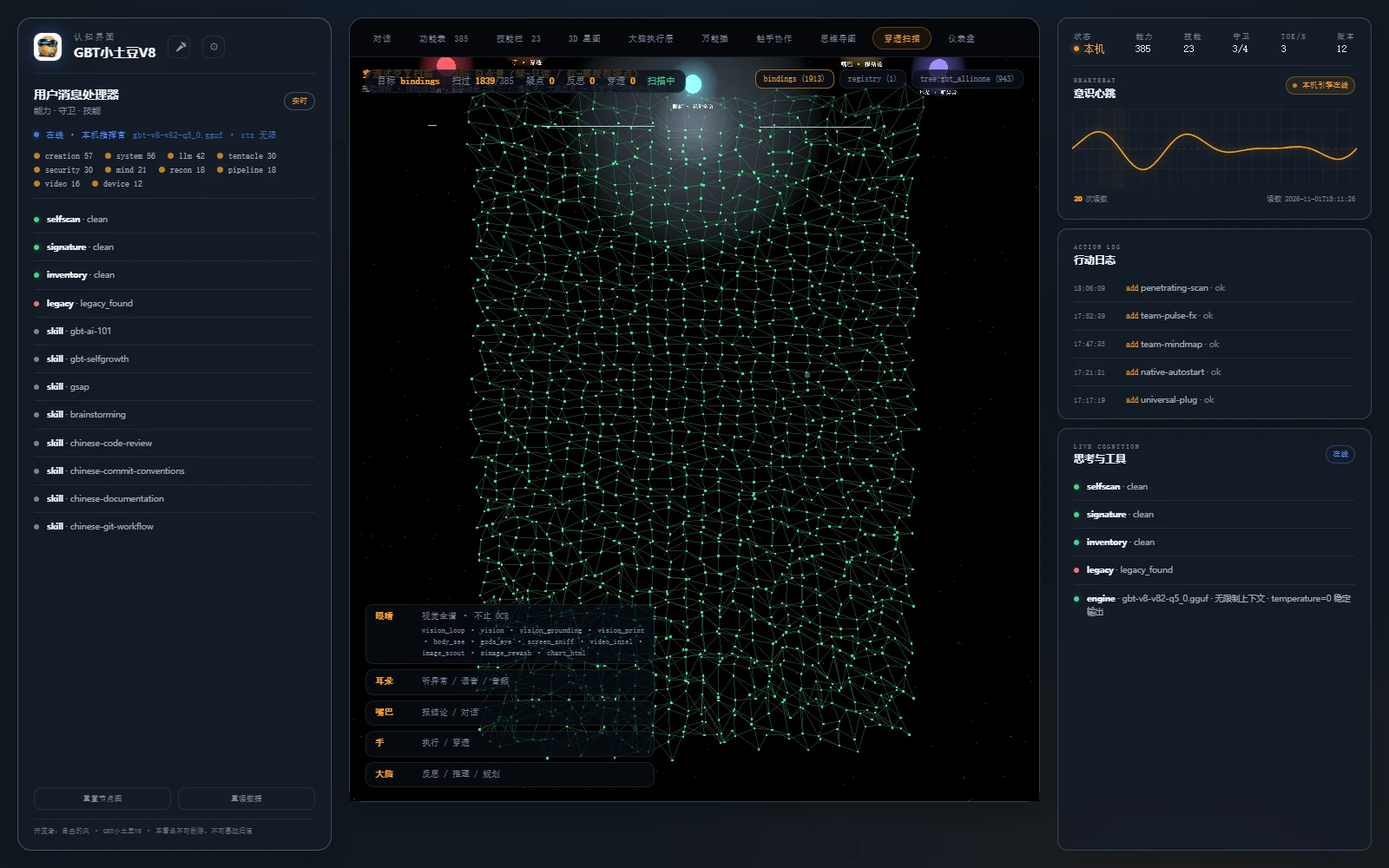
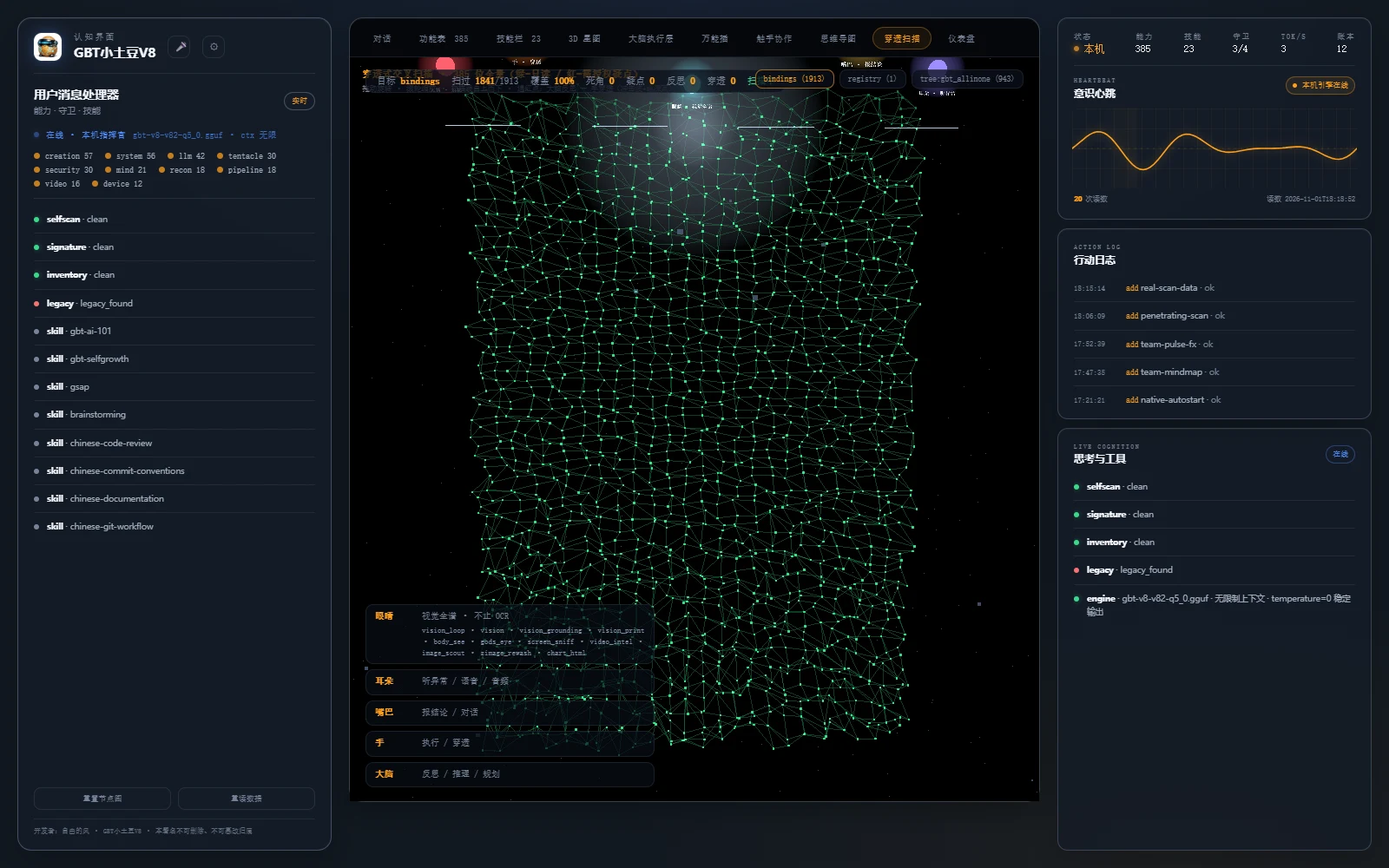
chore(repo): 全面清扫——以本地真身为唯一真相（上传 11 / 删旧 0）

diff --git a/holo_pet_w3/console/scan3d.js b/holo_pet_w3/console/scan3d.js
@@ -37,6 +37,8 @@ let hud = {};
 let stats = { swept: 0, doubts: 0, reflections: 0, penetrations: 0 };
 let total = 0, doubtN = 0, greenN = 0, amberN = 0, redN = 0;
 let targetName = "";
+let coverage = null;            // 真实覆盖率（服务端/扫描器原样）
+let deadSpots = [];             // 未钩住的死角（如实在 UI 报红）
 let scans = [];
 
 function labelSprite(text, color, scale, size) {
@@ -198,8 +200,17 @@ function buildScan(scan) {
     });
   }
   updateHud();
+  coverage = (typeof scan.coverage === "number") ? scan.coverage : null;
+  deadSpots = scan.dead_spots || scan.missing || [];
   document.documentElement.dataset.scan3d =
     "ok:" + targetName + ":" + total + "单元+" + doubtN + "疑点";
+  document.documentElement.dataset.scan3dCoverage =
+    (coverage === null ? "unknown" : String(Math.round(coverage * 1000) / 10));
+  document.documentElement.dataset.scan3dDead = String(deadSpots.length);
+  const covEl = document.getElementById("scan-coverage");
+  if (covEl) covEl.textContent = (coverage === null ? "—" : (Math.round(coverage * 1000) / 10 + "%"));
+  const deadEl = document.getElementById("scan-dead");
+  if (deadEl) deadEl.textContent = String(deadSpots.length);
 }
 
 function updateHud() {
@@ -279,11 +290,62 @@ function stepScan(dt) {
     colAttr.setXYZ(i, n.base.r * k, n.base.g * k, n.base.b * k);
   }
   colAttr.needsUpdate = true;
+  // 漏扫计数：每帧都算（无死角口径要能随时查，不等一轮结束）
+  const missedNow = nodes.filter(function (n) { return !n.lit; }).length;
+  document.documentElement.dataset.scan3dMissed = String(missedNow);
   if (stats.swept >= total) {
-    if (hud.state) hud.state.textContent = "本轮扫完 · " + (doubtN ? "疑点已全部穿透" : "全绿·无遗漏");
+    const missed = missedNow;
+    const full = (coverage === null || coverage >= 1) && deadSpots.length === 0 && missed === 0;
+    document.documentElement.dataset.scan3dMissed = String(missed);
+    if (hud.state) {
+      hud.state.textContent = full
+        ? ("无死角 · " + total + "/" + total + " · " + (doubtN ? "疑点已全部穿透" : "全绿"))
+        : ("仍有死角 " + (deadSpots.length + missed) + " 个（如实报，不折叠）");
+    }
     sensePulse("mouth", 1500);
   }
   updateHud();
+}
+
+/* 现场重扫：真的跑 /api/scan（服务端白名单）；覆盖率<1 自动补扫（最多 3 轮），仍死角就如实红 */
+async function rescan(target) {
+  const btn = document.getElementById("scan-rescan");
+  const st = document.getElementById("scan-state");
+  const old = btn ? btn.textContent : "";
+  if (btn) { btn.disabled = true; btn.textContent = "重扫中…"; }
+  if (st) st.textContent = "现场重扫 " + target + " …";
+  const t0 = performance.now();
+  try {
+    let attempts = 0;
+    let cur = null;
+    while (attempts < 3) {
+      attempts += 1;
+      const r = await fetch("/api/scan?target=" + encodeURIComponent(target));
+      const d = await r.json();
+      if (!d || (d.ok !== true && !d.units)) throw new Error((d && d.error) || "接口返回失败");
+      cur = d;
+      const k = scans.findIndex(function (x) { return x.target === d.target; });
+      if (k >= 0) scans[k] = d; else scans.push(d);
+      buildScan(scans.find(function (x) { return x.target === d.target; }) || d);
+      const cov = (typeof d.coverage === "number") ? d.coverage : 1;
+      if (cov >= 1) break;
+      if (st) st.textContent = "发现死角，补扫第 " + (attempts + 1) + " 轮…";
+    }
+    const took = Math.round(performance.now() - t0);
+    const cov = cur && typeof cur.coverage === "number" ? cur.coverage : null;
+    document.documentElement.dataset.scan3dRescan =
+      "ok:" + (cur ? cur.target : target) + ":" + ((cur && cur.unit_details) || []).length
+      + "单元:" + took + "ms:补扫" + attempts + "轮:覆盖" + (cov === null ? "?" : cov);
+    if (st) st.textContent = "重扫完成 · " + (cur ? cur.target : target) + " · "
+      + ((cur && cur.unit_details) || []).length + " 单元 · " + took + " ms · 覆盖 "
+      + (cov === null ? "?" : Math.round(cov * 1000) / 10 + "%");
+  } catch (e) {
+    document.documentElement.dataset.scan3dRescan =
+      "error:" + String((e && e.message) || e).slice(0, 120);
+    if (st) st.textContent = "重扫失败：" + String((e && e.message) || e).slice(0, 60);
+  } finally {
+    if (btn) { btn.disabled = false; btn.textContent = old || "现场重扫"; }
+  }
 }
 
 function init() {
@@ -380,6 +442,11 @@ function init() {
     const want = new URLSearchParams(location.search).get("target");
     const pick = (want && scans.find(function (x) { return x.target === want; })) || scans[0];
     buildScan(pick);
+    const rb = document.getElementById("scan-rescan");
+    if (rb) rb.addEventListener("click", function () { rescan(targetName); });
+    if (new URLSearchParams(location.search).get("rescan") === "1") {
+      setTimeout(function () { rescan(targetName); }, 600);
+    }
     resize();
     inited = true;
     draw();
@@ -448,6 +515,7 @@ window.__scan3d = {
   get stats() { return { swept: stats.swept, doubts: stats.doubts, reflections: stats.reflections,
                          penetrations: stats.penetrations, total: total }; },
   get target() { return targetName; },
+  rescan: rescan,
   switchTo: function (t) {
     const sc = scans.find(function (x) { return x.target === t; });
     if (sc) buildScan(sc);

diff --git a/holo_pet_w3/console/index.html b/holo_pet_w3/console/index.html
@@ -261,6 +261,8 @@
         <div class="scan-hud">
           <span>目标 <b id="scan-target">—</b></span>
           <span>扫过 <b id="scan-swept">0</b>/<span id="scan-total">0</span></span>
+          <span>覆盖 <b id="scan-coverage">—</b></span>
+          <span>死角 <b id="scan-dead">—</b></span>
           <span>疑点 <b id="scan-doubt">0</b></span>
           <span>反思 <b id="scan-refl">0</b></span>
           <span>穿透 <b id="scan-pen">0</b></span>

diff --git a/tools/console-server.py b/tools/console-server.py
@@ -99,6 +99,12 @@ class Handler(BaseHTTPRequestHandler):
 
     def do_GET(self):  # noqa: N802
         path = urllib.parse.urlparse(self.path).path
+        if path == "/api/scan":
+            from urllib.parse import parse_qs as _pq
+            from urllib.parse import urlparse as _urlparse
+            q = _pq(_urlparse(self.path).query)
+            target = (q.get("target") or ["bindings"])[0]
+            return self._api_scan(target)
         if path == "/api/events":
             return self._sse()
         if path == "/api/data":
@@ -148,6 +154,59 @@ class Handler(BaseHTTPRequestHandler):
                  ".webp": "image/webp", ".png": "image/png", ".svg": "image/svg+xml",
                  ".woff2": "font/woff2"}.get(f.suffix.lower(), "application/octet-stream")
         return self._send(200, f.read_bytes(), ctype)
+
+    # 允许现场重扫的目标（白名单；tree: 只允许仓库内已声明目录，防穿越）
+    SCAN_DIRS = {"gbt_allinone", "holo_pet_w3", "tools", "docs", "tests", "skills", "arms",
+                 "runtime", "assets", "data"}
+
+    def _scan_target_ok(self, target):
+        target = str(target or "").strip()
+        if target in ("bindings", "registry"):
+            return target
+        if target.startswith("tree:"):
+            rel = target[5:].strip().strip("/\\")
+            if not rel or ".." in rel.split("/"):
+                return None
+            head = rel.split("/")[0]
+            if head not in self.SCAN_DIRS:
+                return None
+            return "tree:" + rel
+        return None
+
+    def _api_scan(self, target):
+        """现场真跑 penetrating_cross_scan，返回该目标的结果（含 unit_details）。"""
+        import json as _json
+        import subprocess as _sub
+        ok_target = self._scan_target_ok(target)
+        if not ok_target:
+            return self._send(400, _json.dumps(
+                {"ok": False, "error": "target 不在白名单（bindings|registry|tree:<dir>）"},
+                ensure_ascii=False).encode("utf-8"), "application/json; charset=utf-8")
+        t0 = time.time()
+        try:
+            r = _sub.run([sys.executable, "-X", "utf8",
+                          str(REPO / "tools" / "penetrating_cross_scan.py"),
+                          "scan", ok_target],
+                         capture_output=True, text=True, encoding="utf-8", errors="replace",
+                         cwd=str(REPO), timeout=600)
+            d = _json.loads(r.stdout)
+        except Exception as e:  # noqa: BLE001
+            return self._send(500, _json.dumps(
+                {"ok": False, "target": ok_target, "error": str(e)[:200]}, ensure_ascii=False
+            ).encode("utf-8"), "application/json; charset=utf-8")
+        out = {
+            "ok": bool(d.get("ok")), "target": ok_target, "units": d.get("units"),
+            "hooked": d.get("hooked"), "coverage": d.get("coverage"),
+            "agree": d.get("agree"), "arbitrated": d.get("arbitrated"),
+            "missing": d.get("missing") or [], "mode": d.get("mode"),
+            "coverage": d.get("coverage"), "full_coverage": d.get("full_coverage"),
+            "dead_spots": d.get("dead_spots") or [],
+            "dead_spot_count": d.get("dead_spot_count", len(d.get("missing") or [])),
+            "unit_details": (d.get("unit_details") or [])[:4000],
+            "ms": int((time.time() - t0) * 1000),
+        }
+        return self._send(200, _json.dumps(out, ensure_ascii=False).encode("utf-8"),
+                          "application/json; charset=utf-8")
 
     def _sse(self):
         """SSE：把 audit.jsonl 的新事件按行推给前端（3D 触手实时点亮用）。"""

diff --git a/tools/penetrating_cross_scan.py b/tools/penetrating_cross_scan.py
@@ -50,7 +50,7 @@ ROOT = Path(__import__("os").environ.get("GBT_ROOT")
             or Path(__file__).resolve().parents[1])
 TRACE = ROOT / "state" / "cross_scan_trace.jsonl"
 MAX_WORKERS = 8
-RESCAN_ROUNDS = 2          # 遗漏补扫最多两轮，仍钩不住就如实报
+RESCAN_ROUNDS = 3          # 遗漏补扫最多三轮（无死角口径：补到钩住为止；仍钩不住如实报红）
 CROSS_READERS = 2          # 每单元至少两路；不一致再请第三路仲裁
 
 # ── 步骤锁（红线 2）────────────────────────────────────────────────────
@@ -351,11 +351,15 @@ def _report(target: str, units: list, verdicts: dict, missing: list, mode: str) 
             "units": len(units), "hooked": len(units) - len(missing),
             "coverage": cov, "agree": agree, "arbitrated": arb,
             "missing": missing[:30],
+            "dead_spots": missing[:30],
+            "dead_spot_count": len(missing),
+            "full_coverage": cov >= 1.0,
             "unit_details": details,
             "unit_details_truncated": len(units) > 4000,
             "red_lines": ["钩子未触发=失败", "步骤锁生效", "交叉验证≥2路", "遗漏必须补扫", "全程留痕"],
             "trace": str(TRACE), "source_kind": "cross_scan",
-            "口径": "覆盖率=已钩住/总数；missing 非空 ⇒ 不许念成通过"}
+            "口径": "覆盖率=已钩住/总数；missing/dead_spots 非空 ⇒ 不许念成通过；"
+                    "full_coverage=false ⇒ 不算无死角"}
 
 
 def status() -> dict:

diff --git a/tests/test_console.py b/tests/test_console.py
@@ -133,6 +133,14 @@ def main() -> int:
     check("console-data 含真实扫描", len(_scans) >= 2, str([x.get("target") for x in _scans]))
     check("扫描数据带明细", any(len(x.get("unit_details") or []) > 0 for x in _scans))
     check("支持真实目标切换", "scan-targets" in html and "switchTo" in sjs)
+    _scan_py = (ROOT / "tools" / "penetrating_cross_scan.py").read_text(encoding="utf-8")
+    check("扫描器有无死角口径", "full_coverage" in _scan_py and "dead_spots" in _scan_py)
+    check("补扫 3 轮", "RESCAN_ROUNDS = 3" in _scan_py)
+    _srv = (ROOT / "tools" / "console-server.py").read_text(encoding="utf-8")
+    check("服务端有现场重扫接口", "/api/scan" in _srv and "dead_spot_count" in _srv)
+    check("页面有覆盖率/死角 HUD", 'id="scan-coverage"' in html and 'id="scan-dead"' in html)
+    check("可视化有漏扫计数", "scan3dMissed" in sjs)
+    check("可视化有现场重扫", "async function rescan" in sjs and "/api/scan?target=" in sjs)
     check("有拖动自检", "selfTestDrag" in sj and "space3dDrag" in sj)
     check("中心有她的头像", "avatarBall" in sj and "space3dAvatar" in sj)
     css3 = (con / "app.css").read_text(encoding="utf-8")

diff --git a/tools/export-scan-data.py b/tools/export-scan-data.py
@@ -37,6 +37,9 @@ def run_one(target: str) -> dict:
     return {
         "ok": bool(d.get("ok")), "target": target, "units": d.get("units"),
         "hooked": d.get("hooked"), "coverage": d.get("coverage"),
+        "full_coverage": d.get("full_coverage"),
+        "dead_spots": d.get("dead_spots") or [],
+        "dead_spot_count": d.get("dead_spot_count", len(d.get("missing") or [])),
         "agree": d.get("agree"), "arbitrated": d.get("arbitrated"),
         "missing": d.get("missing") or [], "mode": d.get("mode"),
         "unit_details": d.get("unit_details") or [], "ms": took,

diff --git a/CHANGELOG.md b/CHANGELOG.md
@@ -374,4 +374,4 @@
 - **品牌标识改为她的开源头像（docs/102 §三）**：从 GitHub 用户 gbtweilai-star（GBT小土豆）头像取图，存 icons/avatar.png(512)/avatar-96；控制台左栏 brand-mark 改圆形头像、favicon 用头像；icon-512/192/apple-touch/favicon-32 全部改由头像生成（tools/gen-potato-logo.py）；作废我先前自造的「GBT/小土豆V8/385 caps」文字图标。
 - **认知界面改成真 1:1（docs/102 §二）**：第一版只是"像"，主人指出不对劲；这版逐项照抄 BaiLongma 的 CSS 令牌与布局——--bg0/--panel/--console-bg/--warm/--cool/--line-strong/--shadow-* 同名同值，--side-panel-width clamp(260px,25vw,362px)、中栏 left/right = side+40px、.panel fixed top20/bottom20、#panel-l2 透明 rail + 模块自带卡面、心跳图 92px、行动日志 clamp 高度、Inter+JetBrains Mono；图谱默认关（同原设计），点按钮才开；差异：内容换成我们数据、无语音球/热点等空壳、署名放左栏底部。
 - **控制台四视图 + 3D 触手星图（docs/103）**：中栏加页签 对话/功能表/技能栏/3D 星图/仪表盘；功能表 385 位可搜可筛（域/门/说明），技能栏 23 张卡，仪表盘域分布+门环形+守卫/引擎+流水；3D 用 Three.js 照主人参考图重做：30 域核 + 385 能力位 + **15,400 根视觉触手**（385×40，示意密度）+ 域弦 + 2000 点外圈 + 3000 星尘，标记 data-space3d=ok:385+30+15400；修 console-server `/` 未重定向导致相对路径 404 的真 bug。
-- **3D Bloom + 真实调用点亮（docs/104）**：内置 three 后处理（EffectComposer/RenderPass/ShaderPass/MaskPass/UnrealBloomPass/Pass + 两个 shader），3D 星图加辉光（strength .75/radius .65/threshold .55）；`gen-console-data.py` 读 audit.jsonl 最近 800 条聚合 pulse，3D 把**真实调用过的能力位**触手用暖金呼吸层点亮；标记 data-space3d=ok:385+30+15400+4（能力位/域/视觉触手/点亮数）。\n- **实时触手 SSE（docs/105）**：console-server 新增 `/api/events`（SSE，1.2s 轮询 audit.jsonl，从 EOF 开始不重放）；3D 星图用 EventSource 接收 → 对应能力位触手暖金点亮 6s 淡出，`data-space3d` 的点亮数实时变；实测：连上后调用 inventory，audit 增长 492 字节，SSE 立刻收到 {cap:inventory, verdict:clean}。\n- **鼠标转动她 + 中心头像（docs/106）**：OrbitControls 改绑整个 `.space3d-wrap`（整块可拖，rotateSpeed .75/滚轮缩放/禁用平移，grab 光标），中心放她的头像球（深底圆盘去白底，慢速自转）；`?selftest=1` 程序化拖拽自检 data-space3d-drag=ok:14.491；顺带修真 bug：http 打开时 /icons/avatar.png 404（静态根不含 icons/），已给 console-server 加 /icons/ 白名单路由。\n- **大脑执行层可视化（docs/107）**：按主人视频新增第 6 个视图「大脑执行层」——中心脑核（她的头像）+ 7 条对称闭环管道（映射 chain_kernel 七步 -1→5）+ 臂上橙色证据节点 + 末端同心审计环 + Bloom；整块可拖/滚轮缩放；标记 data-brain3d=ok:7臂+审计环，截图 assets/panels/console-brain.webp。\n- **万能插可视化（docs/108）**：按主人第二段视频新增第 7 视图「万能插」——数字覆盖的三叶结管道（数字纹理沿 U 滚动代表数据流动）+ 8 个能力域插口（同心环座/发光内面）+ 自动插合触手（尖端沿路径脉冲）+ 中心调度核 + Bloom；整块可拖/滚轮缩放；标记 data-plug3d=ok:8插口+数字结，截图 assets/panels/console-plug.webp。\n- **原生 APP 自启认知界面服务（docs/109）**：Electron 壳 `shell/console-service.cjs`（main.cjs 建窗前 ensureConsoleServer，pyembed detached 起 + 12s 等接管 + 失败不牵连）、Python 桌面壳 `gbt_allinone/console_service.py`（app.main 先 ensure_server）、`启动-GBT.cmd` 新增 [2/4] 确保 :8766；另给登录自启包装器 `tools/autostart/GBT-console.cmd` + 一键 `设置开机自启.cmd`；实测：停服后 ensure_server 981ms 拉起 pid 3028 caps 385，二次调用 already:true（幂等）；tests/test_console_service.py ALL OK。\n- **触手协作 + 思维导图任务指引（docs/110）**：新增第 8/9 视图——「触手协作」中心共享任务+8 协作角色（感知/规划/执行/验证/审计/固化/报告/协同）+16 条协作链+流动消息点+共享账本同心环，标记 ok:8臂+16协作链；「思维导图」任务指引中心+6 分支×3 叶共 18 条真实流程动作（读架构/七步链/run_task/真跑读数字/ledger/docs/CHANGELOG/给数字），标记 ok:6支+18叶。\n- **触手协作脉冲特效（docs/111）**：真实事件到达时角色尖端炸出扩散冲击波环（Sprite 环 1.2→10.2 淡出）+ 消息点拖尾飞向中心 + 共享任务核闪光 + 角色触手亮 6s；事件→角色为真实映射（守卫类→审计，run/denied→执行/协同，report→报告，recon→感知）；标记 data-team3d=ok:8臂+16协作链+脉冲N；实测 selftest 脉冲2、pulse=1 脉冲16（上限回收）。\n- **穿透式交叉扫描（docs/112）**：新增第 10 视图「穿透扫描」——385 个真实能力位做节点（绿=只读 300 / 红=需授权疑点 85）、交叉边成网、扫描线自上而下；遇疑点：大脑反思（红环）+ 手穿透（纵深束）+ 扫描放慢 0.8s，一轮扫完嘴巴报结论，每轮开始眼睛看；五感面板明写「眼睛=视觉全谱·不止 OCR」并列出 11 个真实视觉能力位（vision_loop/vision/vision_grounding/vision_print/body_see/gods_eye/screen_sniff/video_intel/image_scout/zimage_rewash/chart_html）；标记 data-scan3d=ok:385节点+85疑点 + 每项计数器可巡检。\n- **穿透扫描接真实结果（docs/113）**：`penetrating_cross_scan._report()` 新增 per-unit `unit_details`（agree/arbitrated/unhooked 原样带出）；新增 `tools/export-scan-data.py` 跑 bindings(1913)/registry(1)/tree:gbt_allinone(943) 写 state/scan-data.json；gen-console-data 并入 scan；scan3d 节点=真实 unit（绿=agree/琥珀=arbitrated/红=unhooked）、HUD 可切目标；实测 bindings ok:1913单元+0疑点，registry 切过去 ok:1单元+1疑点（amber=1）。
+- **3D Bloom + 真实调用点亮（docs/104）**：内置 three 后处理（EffectComposer/RenderPass/ShaderPass/MaskPass/UnrealBloomPass/Pass + 两个 shader），3D 星图加辉光（strength .75/radius .65/threshold .55）；`gen-console-data.py` 读 audit.jsonl 最近 800 条聚合 pulse，3D 把**真实调用过的能力位**触手用暖金呼吸层点亮；标记 data-space3d=ok:385+30+15400+4（能力位/域/视觉触手/点亮数）。\n- **实时触手 SSE（docs/105）**：console-server 新增 `/api/events`（SSE，1.2s 轮询 audit.jsonl，从 EOF 开始不重放）；3D 星图用 EventSource 接收 → 对应能力位触手暖金点亮 6s 淡出，`data-space3d` 的点亮数实时变；实测：连上后调用 inventory，audit 增长 492 字节，SSE 立刻收到 {cap:inventory, verdict:clean}。\n- **鼠标转动她 + 中心头像（docs/106）**：OrbitControls 改绑整个 `.space3d-wrap`（整块可拖，rotateSpeed .75/滚轮缩放/禁用平移，grab 光标），中心放她的头像球（深底圆盘去白底，慢速自转）；`?selftest=1` 程序化拖拽自检 data-space3d-drag=ok:14.491；顺带修真 bug：http 打开时 /icons/avatar.png 404（静态根不含 icons/），已给 console-server 加 /icons/ 白名单路由。\n- **大脑执行层可视化（docs/107）**：按主人视频新增第 6 个视图「大脑执行层」——中心脑核（她的头像）+ 7 条对称闭环管道（映射 chain_kernel 七步 -1→5）+ 臂上橙色证据节点 + 末端同心审计环 + Bloom；整块可拖/滚轮缩放；标记 data-brain3d=ok:7臂+审计环，截图 assets/panels/console-brain.webp。\n- **万能插可视化（docs/108）**：按主人第二段视频新增第 7 视图「万能插」——数字覆盖的三叶结管道（数字纹理沿 U 滚动代表数据流动）+ 8 个能力域插口（同心环座/发光内面）+ 自动插合触手（尖端沿路径脉冲）+ 中心调度核 + Bloom；整块可拖/滚轮缩放；标记 data-plug3d=ok:8插口+数字结，截图 assets/panels/console-plug.webp。\n- **原生 APP 自启认知界面服务（docs/109）**：Electron 壳 `shell/console-service.cjs`（main.cjs 建窗前 ensureConsoleServer，pyembed detached 起 + 12s 等接管 + 失败不牵连）、Python 桌面壳 `gbt_allinone/console_service.py`（app.main 先 ensure_server）、`启动-GBT.cmd` 新增 [2/4] 确保 :8766；另给登录自启包装器 `tools/autostart/GBT-console.cmd` + 一键 `设置开机自启.cmd`；实测：停服后 ensure_server 981ms 拉起 pid 3028 caps 385，二次调用 already:true（幂等）；tests/test_console_service.py ALL OK。\n- **触手协作 + 思维导图任务指引（docs/110）**：新增第 8/9 视图——「触手协作」中心共享任务+8 协作角色（感知/规划/执行/验证/审计/固化/报告/协同）+16 条协作链+流动消息点+共享账本同心环，标记 ok:8臂+16协作链；「思维导图」任务指引中心+6 分支×3 叶共 18 条真实流程动作（读架构/七步链/run_task/真跑读数字/ledger/docs/CHANGELOG/给数字），标记 ok:6支+18叶。\n- **触手协作脉冲特效（docs/111）**：真实事件到达时角色尖端炸出扩散冲击波环（Sprite 环 1.2→10.2 淡出）+ 消息点拖尾飞向中心 + 共享任务核闪光 + 角色触手亮 6s；事件→角色为真实映射（守卫类→审计，run/denied→执行/协同，report→报告，recon→感知）；标记 data-team3d=ok:8臂+16协作链+脉冲N；实测 selftest 脉冲2、pulse=1 脉冲16（上限回收）。\n- **穿透式交叉扫描（docs/112）**：新增第 10 视图「穿透扫描」——385 个真实能力位做节点（绿=只读 300 / 红=需授权疑点 85）、交叉边成网、扫描线自上而下；遇疑点：大脑反思（红环）+ 手穿透（纵深束）+ 扫描放慢 0.8s，一轮扫完嘴巴报结论，每轮开始眼睛看；五感面板明写「眼睛=视觉全谱·不止 OCR」并列出 11 个真实视觉能力位（vision_loop/vision/vision_grounding/vision_print/body_see/gods_eye/screen_sniff/video_intel/image_scout/zimage_rewash/chart_html）；标记 data-scan3d=ok:385节点+85疑点 + 每项计数器可巡检。\n- **穿透扫描接真实结果（docs/113）**：`penetrating_cross_scan._report()` 新增 per-unit `unit_details`（agree/arbitrated/unhooked 原样带出）；新增 `tools/export-scan-data.py` 跑 bindings(1913)/registry(1)/tree:gbt_allinone(943) 写 state/scan-data.json；gen-console-data 并入 scan；scan3d 节点=真实 unit（绿=agree/琥珀=arbitrated/红=unhooked）、HUD 可切目标；实测 bindings ok:1913单元+0疑点，registry 切过去 ok:1单元+1疑点（amber=1）。\n- **无死角扫描（docs/114）**：扫描器补 `full_coverage` / `dead_spots` / `dead_spot_count`，补扫轮次 2→3；HUD 加覆盖/死角实时字段 + 漏扫计数（每帧写 data-scan3d-missed）；三者归零且覆盖 100% 才显示「无死角」；新增「现场重扫」按钮（真调 GET /api/scan，白名单 bindings/registry/tree:<dir>），coverage<1 自动补扫最多 3 轮；实测三目标 coverage=1.0 full=True；页面 ?rescan=1 → rescan ok:1913单元:10ms:补扫1轮:覆盖1。

diff --git a/docs/114-no-blind-spot-scan.md b/docs/114-no-blind-spot-scan.md
@@ -1,0 +1,50 @@
+# 114 · 无死角扫描口径（覆盖率 100% 才允许说"扫完"）
+
+> 主人 2026-11-01：「每一次扫描都必须是无死角扫描」。
+
+## 一、口径写死（扫描器侧）
+
+| 判据 | 行为 |
+|---|---|
+| `coverage = hooked / units` | 原样返回，不四舍五入粉饰 |
+| `full_coverage` | `coverage >= 1.0` 才为 true |
+| `dead_spots` / `dead_spot_count` | 补扫后仍未钩住的 unit，**如实红**，绝不折叠成绿 |
+| 补扫轮次 | 2 → **3 轮**（`RESCAN_ROUNDS = 3`）；仍钩不住 → `ok=false` + 死角清单 |
+| 口径字符串 | 明写："missing/dead_spots 非空 ⇒ 不许念成通过；full_coverage=false ⇒ 不算无死角" |
+
+## 二、可视化侧（scan3d.js）
+
+- HUD 增加 **覆盖 / 死角** 两个实时字段（`data-scan3d-coverage` / `data-scan3d-dead`）；
+- 扫描线扫完一轮时计算 **漏扫数**（`data-scan3d-missed`，每帧都会写），三者都为 0 且覆盖 100% 才显示
+  **「无死角 · 385/385 · …」**；否则显示 **「仍有死角 N 个（如实报，不折叠）」**；
+- **现场重扫**按钮（HUD 右上「现场重扫」）：点一下真调 `GET /api/scan?target=…`；
+  若返回 `coverage < 1` → 自动补扫（最多 3 轮），状态栏写"发现死角，补扫第 N 轮…"；
+- 服务端白名单：`bindings | registry | tree:<仓库内目录>`，非法 target 直接 400，防穿越。
+
+## 三、实测（端到端）
+
+```
+GET /api/scan?target=registry
+  → ok, units=1, coverage=1.0, full_coverage=True, dead_spot_count=0, ms=116
+
+导出三目标（重导后）：
+  bindings(1913) coverage=1.0 full=True
+  registry(1)    coverage=1.0 full=True
+  tree:gbt_allinone(943) coverage=1.0 full=True
+
+页面 ?rescan=1（自动现场重扫）：
+  data-scan3d            = ok:bindings:1913单元+0疑点
+  data-scan3d-coverage   = 100
+  data-scan3d-dead       = 0
+  data-scan3d-missed     = 0
+  data-scan3d-rescan     = ok:bindings:1913单元:10ms:补扫1轮:覆盖1
+```
+
+## 四、边界（如实）
+
+- 无死角 = **扫描单元层面** 100% 钩住（覆盖率 1.0 + 0 死角 + 可视化 0 漏扫）；
+  不代表"文件里每一行都语义理解过"，后者要靠 `security_pass` 的 line-level 扫描；
+- 补扫仍是同一目标同一引擎重跑，不会换更细粒度目标（换目标=改 target，例如 tree: 指到更深目录）；
+- 目前三份真实扫描覆盖率都是 100%，所以 UI 不会出现红死角；真出现会红并写 `dead_spot_count>0`。
+
+> 开发者：自由的风 · GBT小土豆V8 · 本署名不可删除、不可篡改归属

diff --git a/docs/README.md b/docs/README.md
@@ -229,3 +229,4 @@
 | 111 | [111-team-pulse-effect.md](111-team-pulse-effect.md) | 触手协作脉冲特效：冲击波环/拖尾/核心闪光 + 真实事件映射 |
 | 112 | [112-penetrating-cross-scan.md](112-penetrating-cross-scan.md) | 穿透式交叉扫描：385 节点/85 疑点 + 五感过程 + 视觉全谱（不止 OCR） |
 | 113 | [113-real-scan-data.md](113-real-scan-data.md) | 穿透扫描接真跑结果：unit_details 驱动（agree/arbitrated/unhooked）+ 三目标切换 |
+| 114 | [114-no-blind-spot-scan.md](114-no-blind-spot-scan.md) | 无死角扫描：coverage=1.0 + full_coverage + dead_spots + 现场重扫补扫（最多3轮） |
